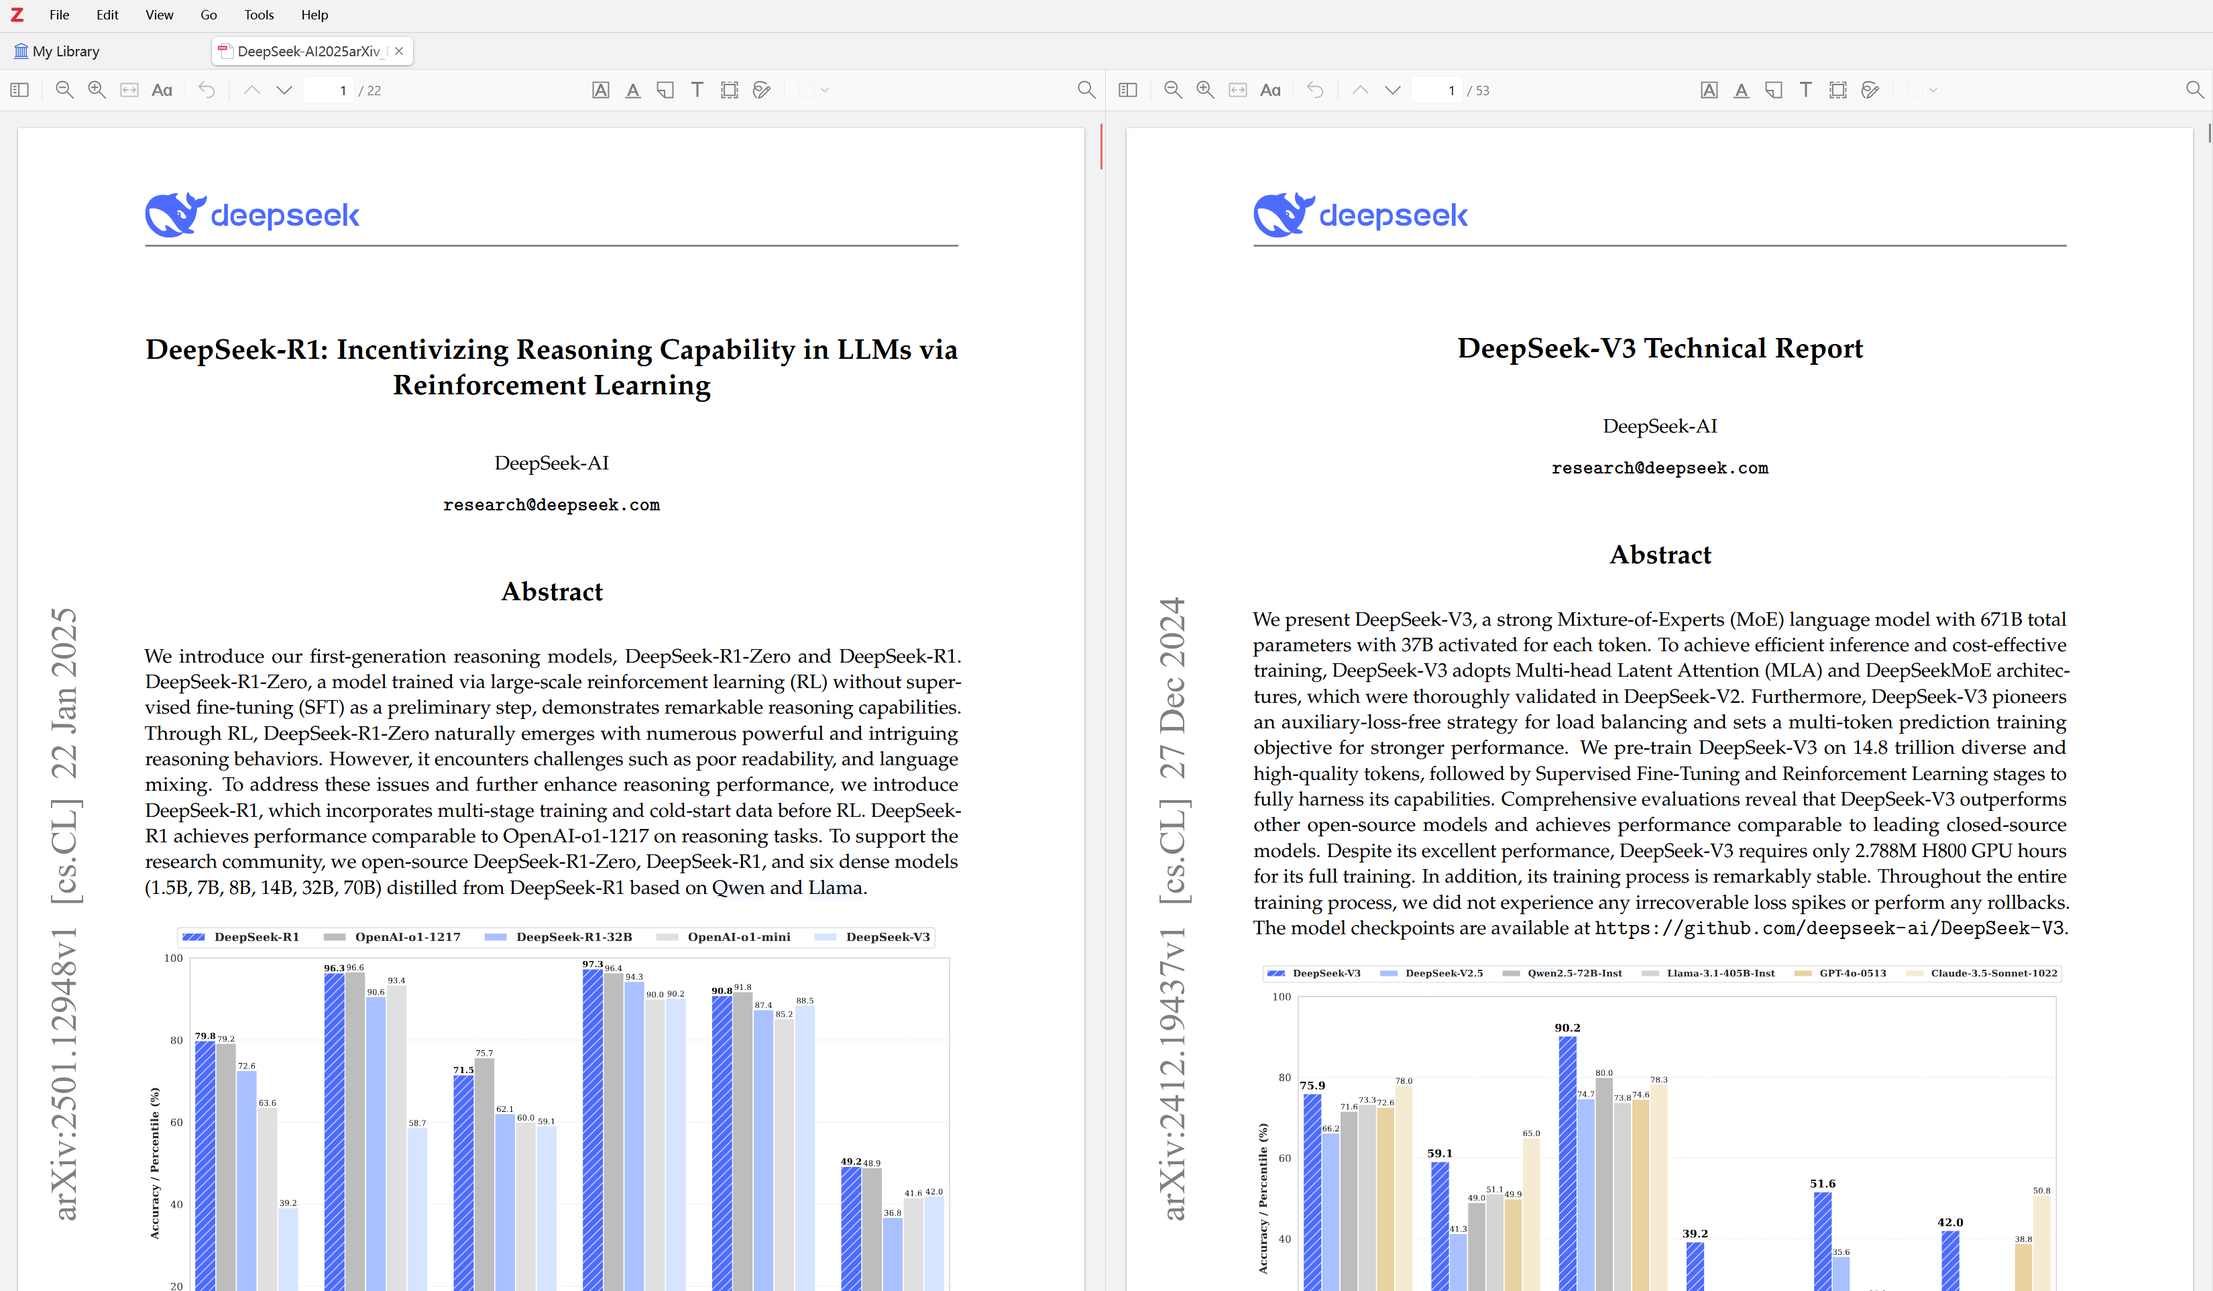
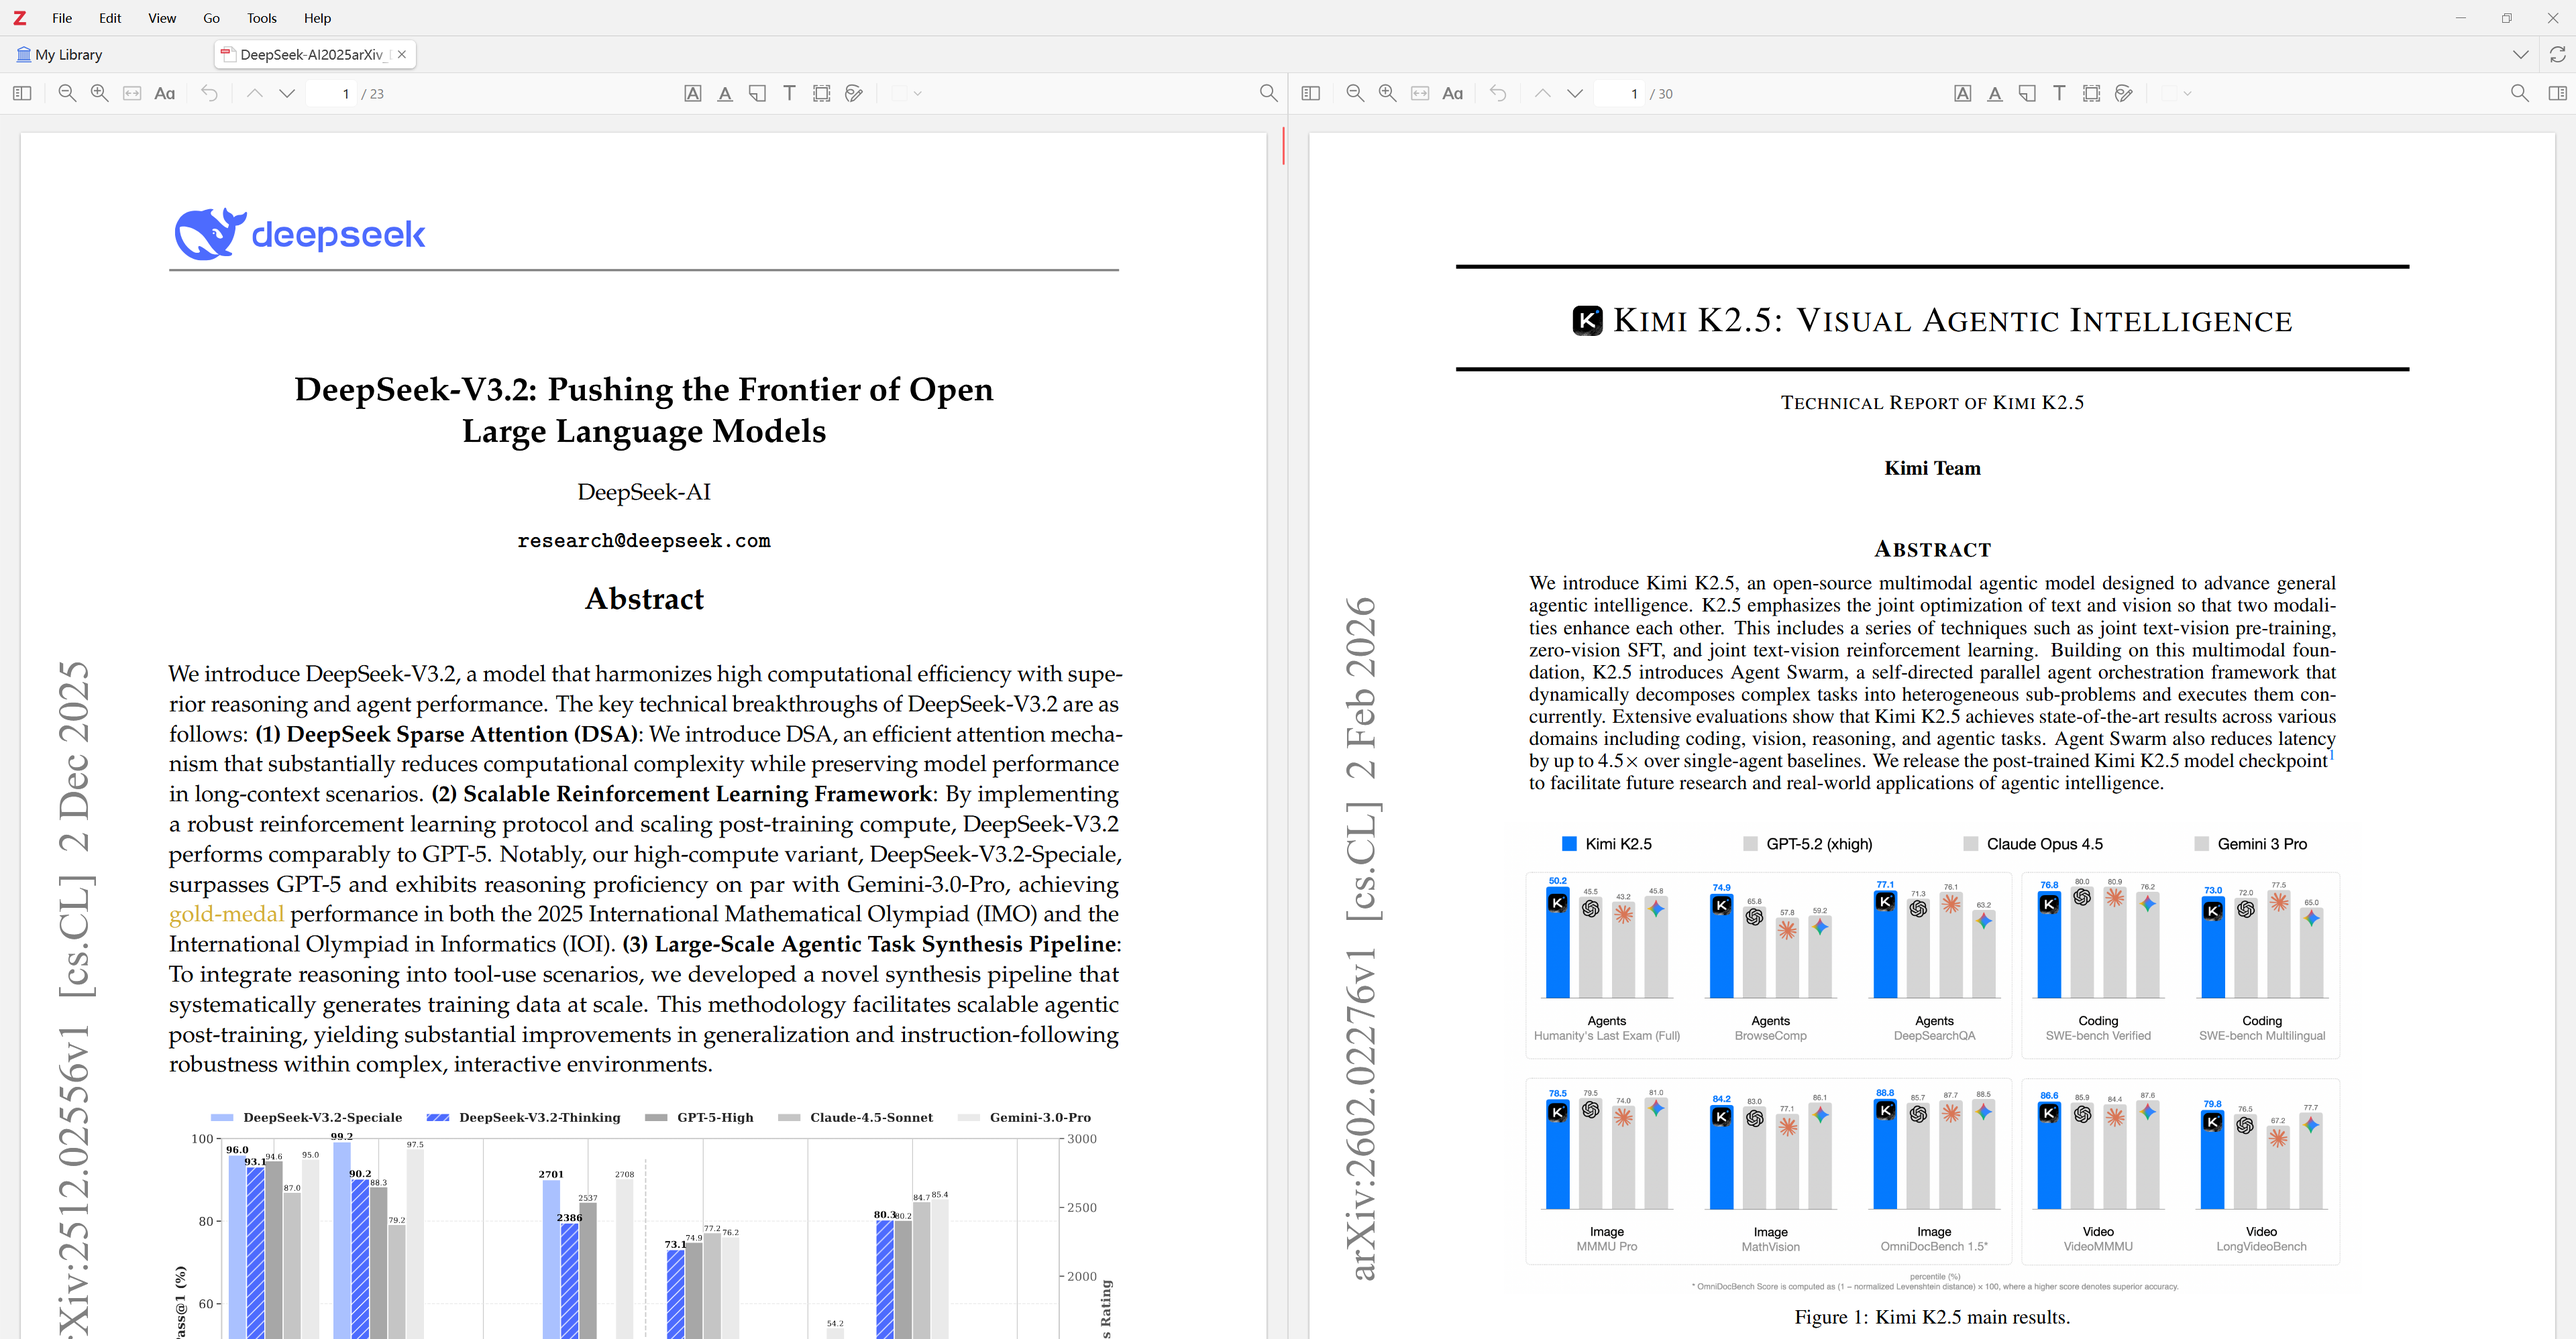
feat: update documentation and images for split-view reader functionality

diff --git a/README.md b/README.md
@@ -7,17 +7,17 @@
 
 ---
 
-**Split-View Reader** is a plugin for [Zotero 8](https://www.zotero.org/) that enables split-view reading different PDFs with synchronized controls.
+**Split-View Reader** is a plugin for [Zotero 8](https://www.zotero.org/) that enables split-view reading same or different PDFs with optional primary-view action sync.
 
 <p align="center">
-  <img src="doc/example.png" width="90%" alt="Example" />
+  <img src="doc/example.png" width="1500" alt="Example" />
 </p>
 
 ## Features
 
-- **Split-View Mode**: View same/different PDF document in two synchronized panes side by side
-- **Synchronized Scrolling**: Scroll both views simultaneously for seamless reading
-- **Independent Navigation**: Each pane can also be navigated independently when needed
+- **Split-View Mode**: View the same or different PDFs side by side in a single Zotero tab
+- **Synchronized Scroll/Zoom**: When a primary view is set, the other pane follows it during scrolling and zooming via toolbar buttons or the mouse wheel
+- **Independent Navigation**: Clear the primary view to turn sync off and navigate both panes independently
 - **Seamless Integration**: Works naturally within Zotero's reader interface
 
 ## Installation
@@ -33,32 +33,36 @@
 
 Press `Shift + P` to open Zotero's command palette, then select **Split View Reader** to start split-view mode.
 
-<img src="doc/command-example.png" width="80%" alt="Command Palette" />
+<p align="center">
+  <img src="doc/command-example.png" width="650" alt="Command Palette" />
+</p>
 
 ### Right-Click Context Menu
 
-Right-click in either pane to access these options:
+Right-click in either pane to access these options in an open split-view reader tab:
 
-| Option                      | Description                                      |
-| --------------------------- | ------------------------------------------------ |
-| **Close Split-View Reader** | Exit split-view mode                             |
-| **Separate Views**          | Restore the split readers as regular Zotero tabs |
-| **Primary Window**          | Set current pane as the primary (sync source)    |
-| **Open Another PDF**        | Replace secondary pane with a different PDF      |
-| **Swap PDFs**               | Swap the PDFs between left and right panes       |
-| **Sync Position & Zoom**    | Manually sync position and zoom level            |
+| Option                                       | Description                                                  |
+| -------------------------------------------- | ------------------------------------------------------------ |
+| **Swap PDFs**                                | Swap the PDFs between left and right panes                   |
+| **Separate Views**                           | Restore the split readers as regular Zotero tabs             |
+| **Close This View**                          | Close the right-clicked pane                                 |
+| **Set as Primary View / Unset Primary View** | Set or clear primary control for the right-clicked pane      |
+| **Change PDF in This View**                  | Replace the PDF in the right-clicked pane                    |
+| **Match This View to Left/Right View**       | Sync the right-clicked pane's position and zoom to the other |
 
-<p align="left">
-  <img src="doc/right-click1.png" width="18%" style="vertical-align: top" />
-  <img src="doc/right-click2.png" width="23%" style="vertical-align: top" />
-</p>
+Some notes:
+
+- Zooming with `Ctrl + mouse wheel` stays independently controlled in the current view and does not trigger sync.
+- Action sync is active only while a primary view exists. Use **Unset Primary View** from the right-click menu to turn sync off.
 
 ### Settings
 
 Go to `Edit` → `Settings` → Click Split-View Reader to configure:
 
-- **Show Split Tabs as**: Choose how split-view tab titles are displayed without affecting normal Zotero tabs
-- **Follow mouse focus to switch primary window**: Automatically switch the sync source when focus changes
-- **Actions Sync**: Control whether scroll and page navigation stay synchronized
+- **Follow mouse focus to switch primary view**: When enabled, focus changes can move the primary view between panes that already have an active primary view.
+  > If no primary view is set, focus changes do not recreate one; use **Set as Primary View** to enable sync again.
+- **Show Split Tabs as**: Choose how split-view tab titles are displayed without affecting normal Zotero tabs.
 
-<img src="doc/svreader-setting.png" width="80%" alt="Settings" />
+<p align="center">
+  <img src="doc/svreader-setting.png" width="700" alt="Settings" />
+</p>

diff --git a/doc/README-zhCN.md b/doc/README-zhCN.md
@@ -7,17 +7,17 @@
 
 ---
 
-**Split-View Reader（分屏阅读器）** 是一款适用于 [Zotero 8](https://www.zotero.org/) 的插件，支持分屏阅读不同的PDF并提供同步控制功能。
+**Split-View Reader（分屏阅读器）** 是一款适用于 [Zotero 8](https://www.zotero.org/) 的插件，支持并排阅读相同或不同的 PDF，并提供可选的主视图操作同步。
 
 <p align="center">
-  <img src="example.png" width="90%" alt="示例" />
+  <img src="example.png" width="1500" alt="示例" />
 </p>
 
 ## 功能特性
 
 - **分屏模式**：在两个并排的窗格中同时查看相同/不同的 PDF 文档
-- **同步滚动**：两个视图同步滚动，实现无缝阅读体验
-- **独立导航**：需要时，每个窗格也可以独立导航
+- **同步滚动/缩放**：只要设置了主视图，通过工具栏按钮或鼠标滚轮操作时，从动视图就会跟随主视图进行滚动和缩放
+- **独立导航**：取消主视图即可关闭同步，并让两个窗格完全独立导航
 - **无缝集成**：与 Zotero 阅读器界面自然融合
 
 ## 安装方法
@@ -33,32 +33,36 @@
 
 按 `Shift + P` 打开 Zotero 命令面板，选择 **分屏阅读器** 即可进入分屏模式。
 
-<img src="command-example.png" width="80%" alt="命令面板" />
+<p align="center">
+  <img src="command-example.png" width="650" alt="命令面板" />
+</p>
 
 ### 右键菜单操作
 
 在任一窗格中右键点击，可使用以下选项：
 
-| 选项               | 说明                                     |
-| ------------------ | ---------------------------------------- |
-| **关闭分屏阅读器** | 退出分屏模式                             |
-| **拆分视图**       | 将分屏中的阅读器恢复为普通 Zotero 标签页 |
-| **主窗口**         | 将当前窗格设为主窗口（同步源）           |
-| **另一PDF**        | 在副窗口中打开另一个 PDF                 |
-| **交换PDF**        | 交换左右窗格的 PDF                       |
-| **同步位置和缩放** | 手动同步位置和缩放级别                   |
+| 选项                            | 说明                                     |
+| ------------------------------- | ---------------------------------------- |
+| **交换 PDF**                    | 交换左右窗格中的 PDF                     |
+| **分离视图**                    | 将分屏中的阅读器恢复为普通 Zotero 标签页 |
+| **关闭此视图**                  | 关闭触发右键菜单的视图                   |
+| **设为主视图 / 取消主视图**     | 为触发右键菜单的视图设置/取消主视图      |
+| **更换此视图中的 PDF**          | 更换触发右键菜单所在视图的 PDF           |
+| **使此视图与左侧/右侧视图一致** | 让此视图对齐另一侧视图的位置和缩放       |
 
-<p align="left">
-  <img src="right-click1-zhCN.png" width="17%" style="vertical-align: top" />
-  <img src="right-click2-zhCN.png" width="18%" style="vertical-align: top" />
-</p>
+一些说明：
+
+- 使用 `Ctrl + 鼠标滚轮` 进行缩放时，该操作保持独立控制，不会触发同步。
+- 只有存在主视图时，操作同步才会生效。使用右键菜单中的 **取消主视图** 即可关闭同步。
 
 ### 设置
 
 点击 `编辑` → `设置` → 点击 Split-View Reader 进行配置：
 
-- **Show Split Tabs as**：选择分屏标签页标题的显示方式，不影响普通 Zotero 标签页
-- **跟随鼠标焦点切换主窗口**：焦点变更时自动切换同步源
-- **操作同步**：控制滚动与翻页是否保持同步
+- **跟随鼠标焦点切换主视图**：启用后，在已有主视图时，点击另一侧视图会将主视图切换到该侧
+  > 如果当前没有主视图，焦点变化不会重新创建主视图；如需重新开启同步，请使用右键菜单中的 **设为主视图**。
+- **Show Split Tabs as**：选择分屏标签页标题的显示方式，不影响普通 Zotero 标签页。
 
-<img src="svreader-setting-zhCN.png" width="80%" alt="设置" />
+<p align="center">
+  <img src="svreader-setting-zhCN.png" width="700" alt="设置" />
+</p>

diff --git a/AGENTS.md b/AGENTS.md
@@ -1,0 +1,5 @@
+# Build Notes
+
+- `npm run build` 实际执行的是 `zotero-plugin build && tsc --noEmit`。
+- `zotero-plugin build` 会把插件构建产物输出到 `.scaffold/build`。
+- `tsc --noEmit` 只做 TypeScript 类型检查，不会在源码目录生成 `.js` 或 `.d.ts` 编译产物。
